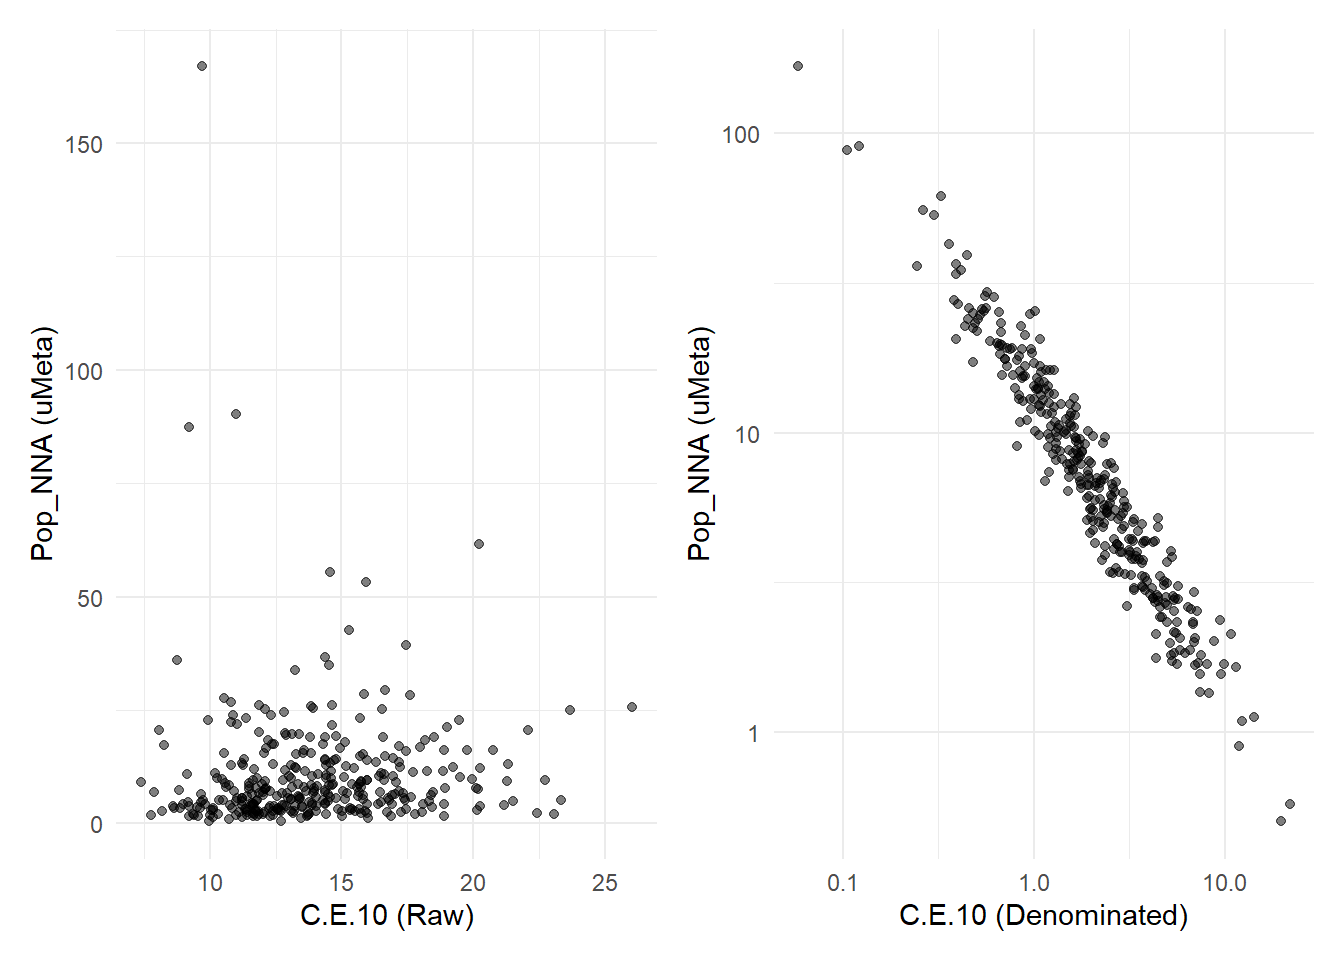
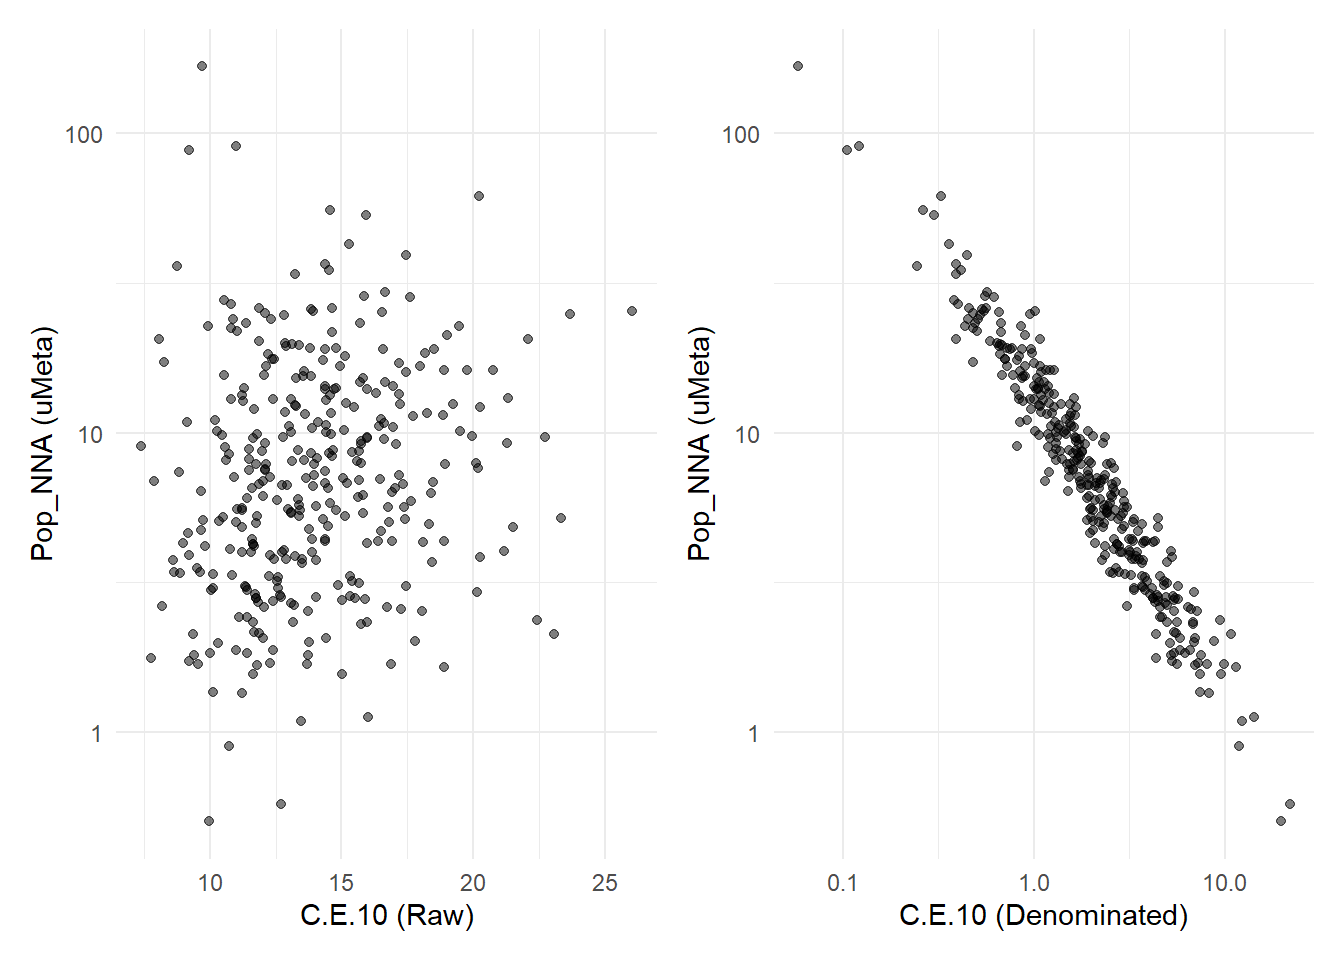
fig adjustment

diff --git a/indicator_analysis_2.html b/indicator_analysis_2.html
@@ -701,7 +701,7 @@ Data sets:
 <p>From a statistical point of view, we divide an indicator by a denominator because <em>before</em> denomination it has a strong association with that denominator. By dividing it, we make it (mostly) independent of that denominator, which is in fact the objective (making indicators size-independent, or <em>intensive</em>). Now, if an indicator is <em>not</em> related to an denominator, and we divide by that denominator, what happens? Then it becomes strongly dependent on it! And I think this what has happened here.</p>
 <p>In short, “C.E.10” was not related to population. Since it was divided by population, now it is related (negatively) to population. We can check</p>
 <div class="cell">
-<div class="sourceCode cell-code" id="cb35"><pre class="sourceCode r code-with-copy"><code class="sourceCode r"><span id="cb35-1"><a href="#cb35-1" aria-hidden="true" tabindex="-1"></a>p1 <span class="ot">&lt;-</span> <span class="fu">plot_scatter</span>(MVI, <span class="at">dsets =</span> <span class="fu">c</span>(<span class="st">"Raw"</span>, <span class="st">"uMeta"</span>), <span class="at">iCodes =</span> <span class="fu">c</span>(<span class="st">"C.E.10"</span>, <span class="st">"Pop_NNA"</span>))</span>
+<div class="sourceCode cell-code" id="cb35"><pre class="sourceCode r code-with-copy"><code class="sourceCode r"><span id="cb35-1"><a href="#cb35-1" aria-hidden="true" tabindex="-1"></a>p1 <span class="ot">&lt;-</span> <span class="fu">plot_scatter</span>(MVI, <span class="at">dsets =</span> <span class="fu">c</span>(<span class="st">"Raw"</span>, <span class="st">"uMeta"</span>), <span class="at">iCodes =</span> <span class="fu">c</span>(<span class="st">"C.E.10"</span>, <span class="st">"Pop_NNA"</span>), <span class="at">log_scale =</span> <span class="fu">c</span>(<span class="cn">FALSE</span>, <span class="cn">TRUE</span>))</span>
 <span id="cb35-2"><a href="#cb35-2" aria-hidden="true" tabindex="-1"></a>p2 <span class="ot">&lt;-</span> <span class="fu">plot_scatter</span>(MVI, <span class="at">dsets =</span> <span class="fu">c</span>(<span class="st">"Denominated"</span>, <span class="st">"uMeta"</span>), <span class="at">iCodes =</span> <span class="fu">c</span>(<span class="st">"C.E.10"</span>, <span class="st">"Pop_NNA"</span>), <span class="at">log_scale =</span> <span class="fu">c</span>(<span class="cn">TRUE</span>, <span class="cn">TRUE</span>))</span>
 <span id="cb35-3"><a href="#cb35-3" aria-hidden="true" tabindex="-1"></a></span>
 <span id="cb35-4"><a href="#cb35-4" aria-hidden="true" tabindex="-1"></a><span class="fu">library</span>(patchwork)</span>
